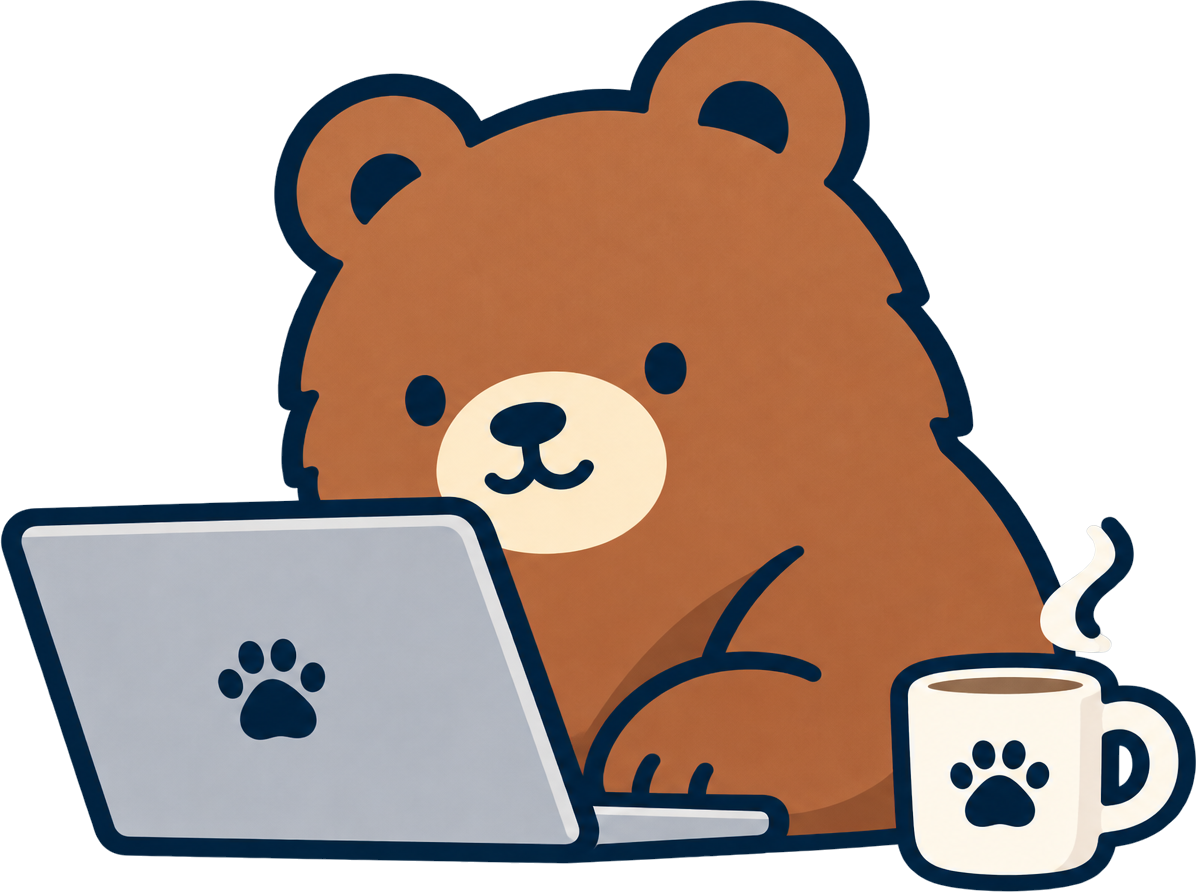
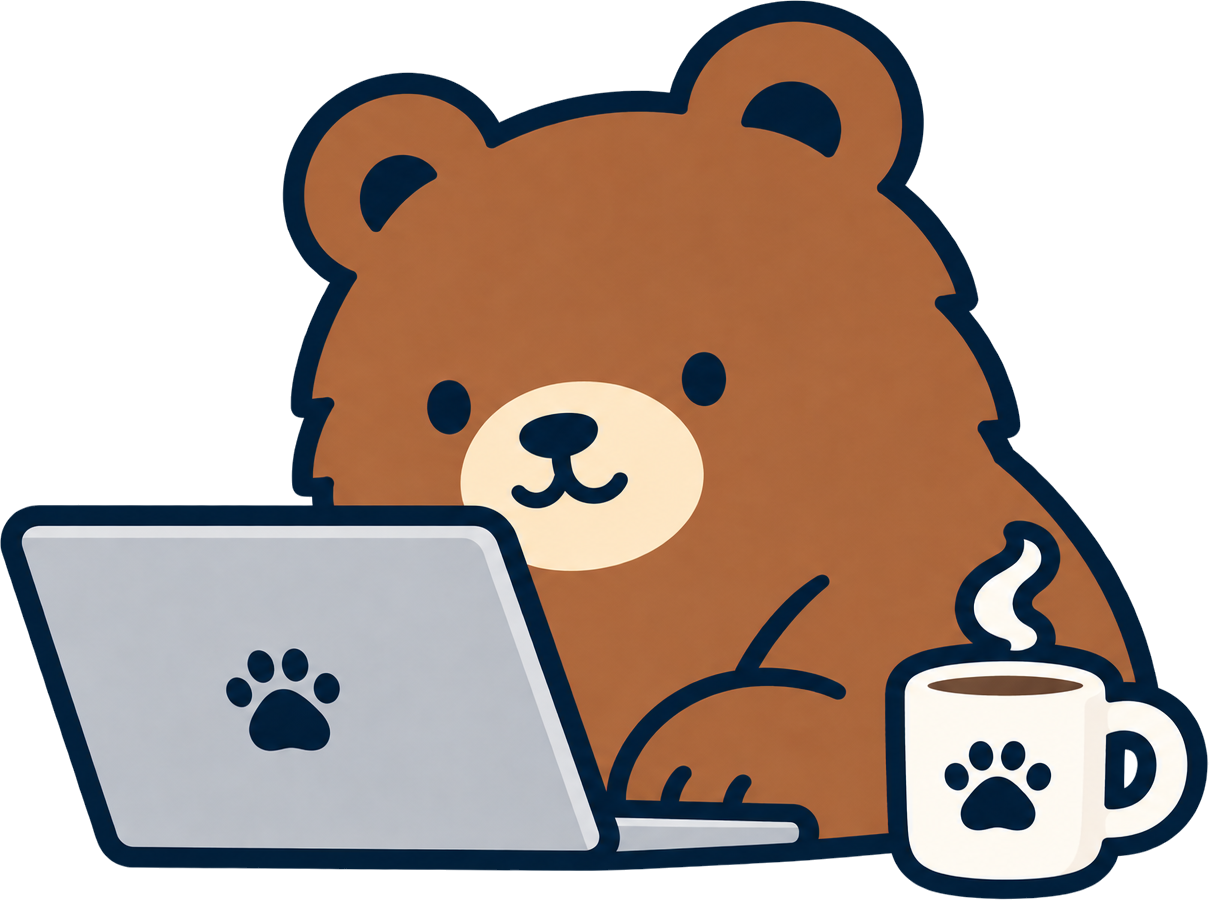
feat(brand): マスコット画像を差し替え、プライバシーポリシー方針を追加
- マスコット：湯気の位置を直した版に差し替え
- D-021 ロゴの類似チェック結果、D-022 アプリ用プライバシーポリシー、D-023 リポジトリ
- 設計書にアプリ用プライバシーポリシーページを追加

diff --git a/docs/decisions.md b/docs/decisions.md
@@ -142,7 +142,23 @@
   - 生成スクリプト：`scripts/brand/`
 - **マスコット**：候補 A（茶色のクマがノートPCで作業するイラスト）。About、404、OGP、ブログなど大きく見せる場所に使う。
   - 文字なし・背景透過で再生成した版を使う：`src/assets/mascot/mascot-laptop.png`（余白を切り詰め、半透明のふちを整理済み）
+  - 2026-10-08 差し替え：湯気の位置をマグカップの上に直した版に更新
 - 候補 B は不採用。候補 C（EST. 2026 のエンブレム）は Web では使わない。
+
+### D-021 ロゴの類似チェック（2026-10-08）
+
+- オーナーが J-PlatPat で確認し、類似の登録商標（図形）は見つからなかった。
+
+### D-022 プライバシーポリシー（2026-10-08）
+
+- サイト用 `/privacy/` に加え、Windows アプリ用のプライバシーポリシーページを作る（Microsoft Store に登録する URL として使う）。
+  - URL 案：`/apps/{アプリのスラッグ}/privacy/`。ストアに登録した後は URL を変えない。
+  - アプリが扱うデータ（収集する情報、送信先、保存場所、第三者サービス）はオーナーから情報をもらって記載する。未確定の間は TODO。
+- 事業者の氏名・住所・電話番号は掲載せず、「お問い合わせいただければ遅滞なく回答します」と記載する（D-009）。連絡先は `info@higuma-lab.jp`。
+
+### D-023 GitHub リポジトリ（2026-10-08）
+
+- `higuma-lab/higuma-lab-web` を非公開で作成した。サイト公開と同時に公開する（D-007）。
 
 ## TODO（未確定）
 
@@ -150,8 +166,8 @@
 - [ ] 料金未確定時の案内文言（D-010）
 - [ ] 活動地域の都道府県名・経験年数の具体値（D-009）
 - [ ] Windowsアプリの名称・概要・公開予定時期・ストアURL
+- [ ] Windowsアプリが扱うデータ（プライバシーポリシー用、D-022）
 - [ ] 各SNSのURL
-- [ ] ロゴの類似チェック結果（D-020 の清書版で実施）
 - [ ] apex / www のどちらを正規URLにするか最終確認（D-003）
 - [ ] AIクローラー（GPTBot 等）を robots.txt で許可するか（初期案：許可）
 - [ ] キャッチコピー（Phase 3 で候補提示）

diff --git a/docs/content/README.md b/docs/content/README.md
@@ -5,11 +5,11 @@
 
 ## 用意するもの
 
-- [ ] `logo.png`：ロゴ（ChatGPT生成のPNG。将来SVG版に差し替え）
 - [ ] `profile.md`：活動地域（都道府県）、経験年数、自己紹介メモ
 - [ ] `services.md`：各サービスの説明メモ（対象、できること、進め方）
 - [ ] `works/`：掲載する制作物ごとのメモ
   - [ ] Windowsアプリ：名称、概要、公開予定時期、ストアURL、使用技術、スクリーンショット
+  - [ ] Windowsアプリのプライバシー情報：収集・保存するデータ、ネット通信の有無と送信先、利用している外部サービス（広告・解析・クラッシュレポート等）、データの削除方法
   - [ ] 本Webサイト（構築後に作成）
 - [ ] `links.md`：X、Instagram、GitHub の URL
 - [ ] `pricing.md`：料金の目安（決まったら）

diff --git a/docs/design.md b/docs/design.md
@@ -187,6 +187,7 @@ higuma-lab-web/
 | ひぐま開発室について | `/about/` | ○ |
 | お問い合わせ | `/contact/` | ○（ボタンとして強調） |
 | プライバシーポリシー | `/privacy/` | フッターのみ |
+| アプリのプライバシーポリシー | `/apps/{slug}/privacy/` | Works の詳細ページからリンク（D-022） |
 | 404 | `/404.html` | — |
 
 - URL は英語のスラッグ、末尾スラッシュあり（`trailingSlash: 'always'`、`build.format: 'directory'`）で統一する。
